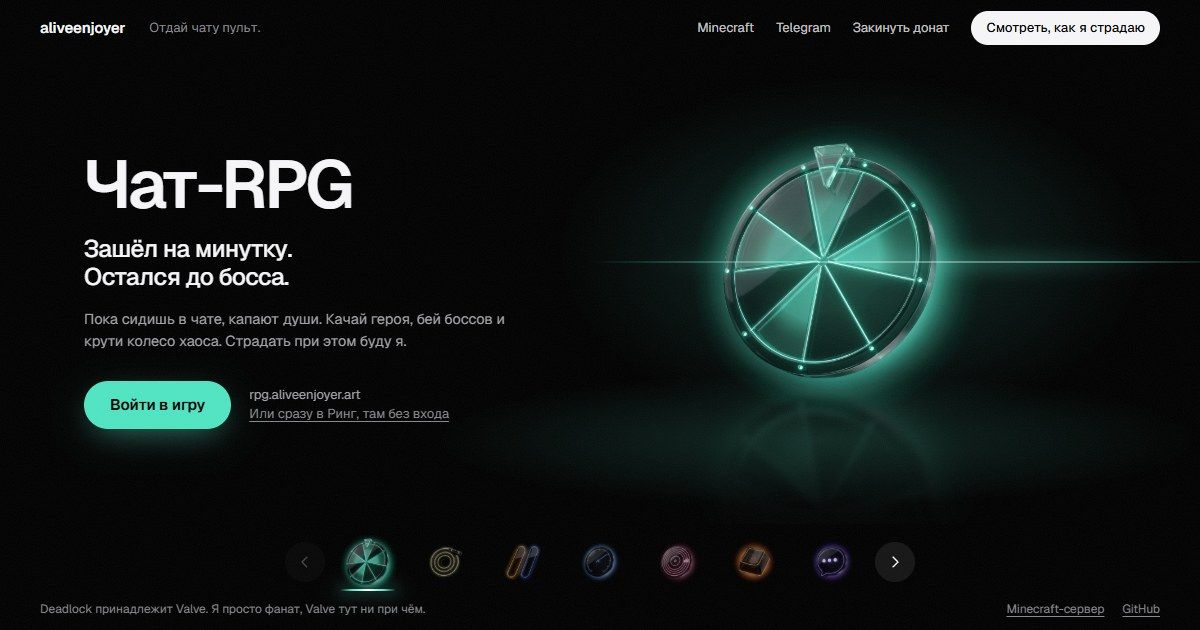
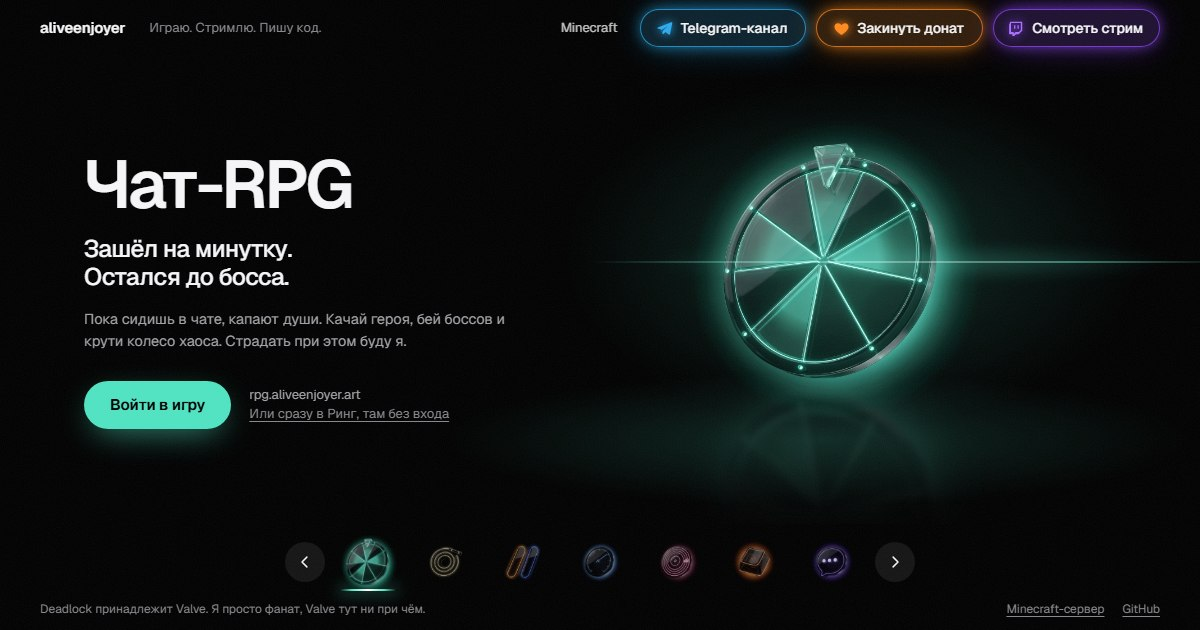
Главная: слоган «Играю. Стримлю. Пишу код.» вместо «Отдай чату пульт.»

Changed region(s): [[0.4625, 0.0, 0.9867, 0.1206], [0.1233, 0.0302, 0.2775, 0.0603], [0.0308, 0.0302, 0.0925, 0.0603]]

diff --git a/index.html b/index.html
@@ -7,7 +7,7 @@
 <meta name="description" content="Игры и программы для стрима от aliveenjoyer: чат-RPG с колесом хаоса, кликер, кастомки Deadlock со стримерами, заказ музыки за баллы и кнопки, которые жмут зрители.">
 <meta name="theme-color" content="#000000">
 <meta property="og:title" content="aliveenjoyer: игры и программы для стрима">
-<meta property="og:description" content="Отдай чату пульт: чат-RPG, кликер, кастомки со стримерами, заказ музыки и кнопки, которые жмут зрители.">
+<meta property="og:description" content="Играю, стримлю, пишу код: чат-RPG, кликер, кастомки со стримерами, заказ музыки и кнопки, которые жмут зрители.">
 <meta property="og:type" content="website">
 <meta property="og:url" content="https://aliveenjoyer.art/">
 <meta property="og:image" content="https://aliveenjoyer.art/assets/og-reel.jpg">
@@ -251,7 +251,7 @@ html.intro .slide.is-active .copy > *, html.intro .slide.is-active .streak { ani
 .i-hold .tab { visibility: hidden; }
 .intro-ov { position: fixed; inset: 0; z-index: 8; display: grid; place-items: center; cursor: pointer; -webkit-user-select: none; user-select: none; }
 .i-stack { width: min(1180px, calc(100vw - 2 * var(--gutter))); display: grid; justify-items: center; text-align: center; }
-.i-title { margin: 0; font-weight: 600; font-size: clamp(34px, 5.4vw, 78px); line-height: 1; letter-spacing: -.045em; opacity: 0; }
+.i-title { margin: 0; font-weight: 600; font-size: clamp(34px, 5.4vw, 78px); line-height: 1.04; letter-spacing: -.045em; text-wrap: balance; opacity: 0; }
 .i-sub { margin: 16px 0 0; font-size: clamp(15px, 1.45vw, 20px); color: var(--gray-2); letter-spacing: -.01em; opacity: 0; }
 .i-row {
   --img: min(150px, calc((100vw - 2 * var(--gutter)) / 7.6));
@@ -351,7 +351,7 @@ html.intro .slide.is-active .copy > *, html.intro .slide.is-active .streak { ani
 
 <header class="nav">
   <a class="brand" href="./">aliveenjoyer</a>
-  <h1 class="tagline">Отдай чату пульт.</h1>
+  <h1 class="tagline">Играю. Стримлю. Пишу код.</h1>
   <nav class="nav-links" aria-label="Ссылки">
     <a class="minor" href="minecraft/">Minecraft</a>
     <div class="cta3">
@@ -778,7 +778,7 @@ html.intro .slide.is-active .copy > *, html.intro .slide.is-active .streak { ani
     try { localStorage.setItem('ae-intro', '1'); } catch (e) {}
     const ov = document.createElement('div');
     ov.className = 'intro-ov';
-    ov.innerHTML = '<div class="i-stack" aria-hidden="true"><p class="i-title">Отдай чату пульт.</p>' +
+    ov.innerHTML = '<div class="i-stack" aria-hidden="true"><p class="i-title">Играю. Стримлю. Пишу код.</p>' +
       '<p class="i-sub">Семь проектов для стрима и Deadlock</p><div class="i-row"><i class="i-line"></i><i class="i-spark"></i></div></div>' +
       '<button class="i-skip" type="button">Пропустить</button>';
     const row = ov.querySelector('.i-row');
